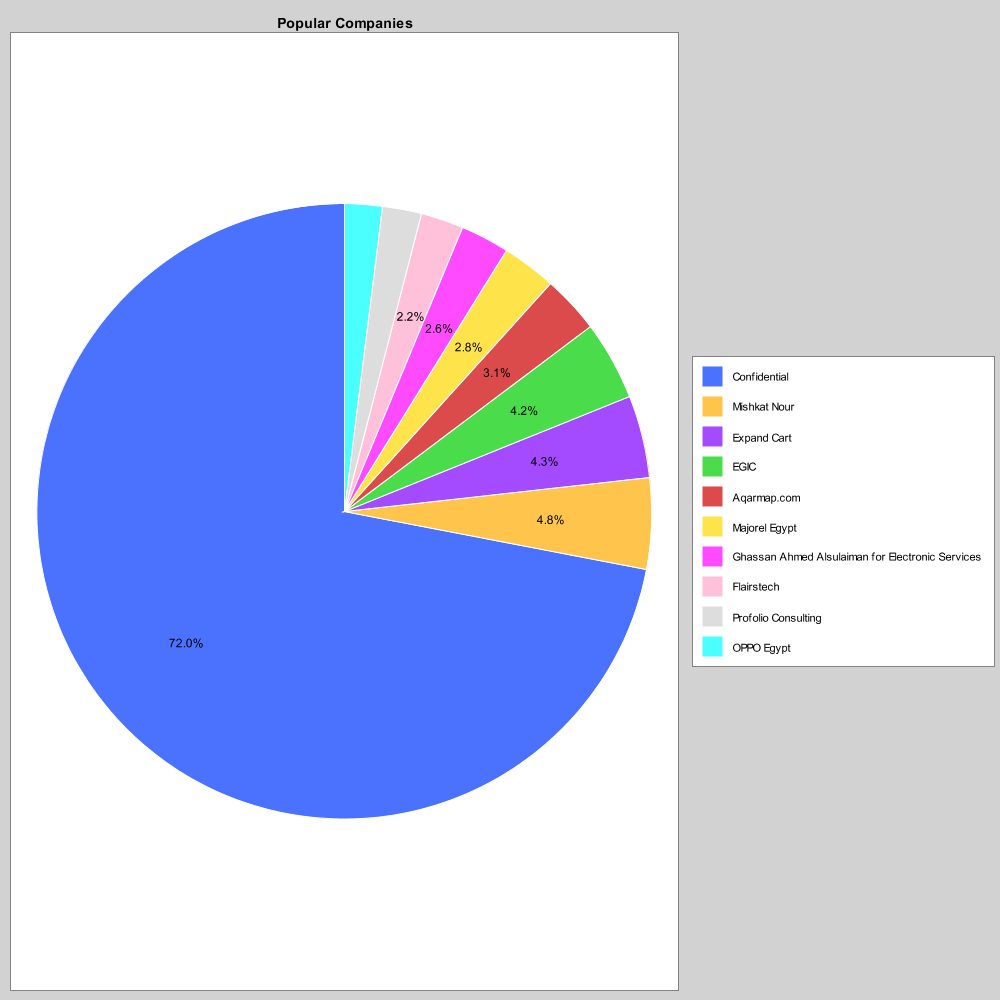
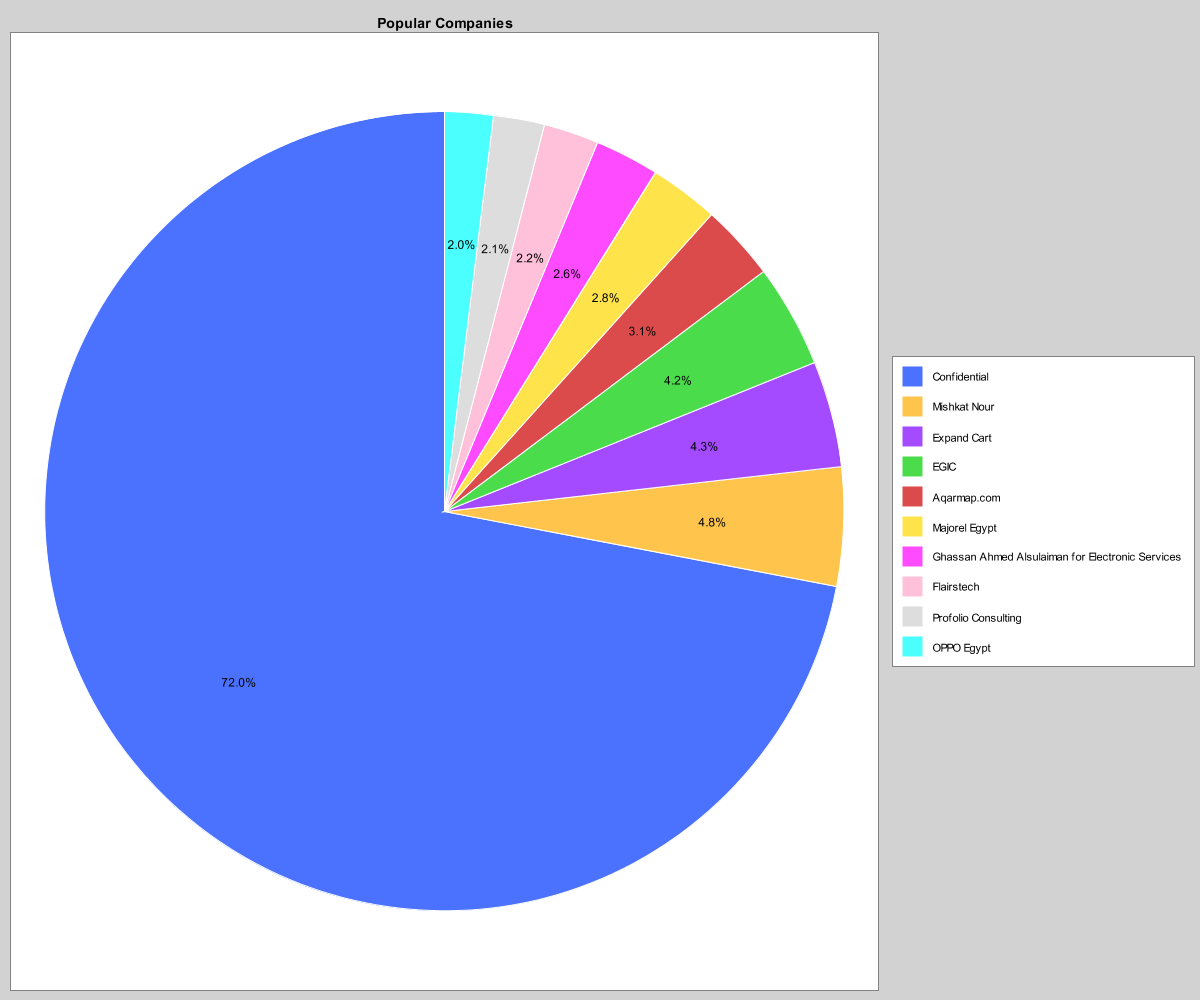
changed from hashmap to map

diff --git a/src/main/java/com/example/WuzzufJobsWebAnalysis/DAO.java b/src/main/java/com/example/WuzzufJobsWebAnalysis/DAO.java
@@ -38,7 +38,7 @@ import java.util.*;
 * makePieChart: creates pie chart
 * filterTable: get top ten demanding for any given table name
 * MakeMapFromRDD: converts RDD to LinkedHashMap
-* MakeMapFromLists: converts two lists to LinkedHashMap<list1,list2>
+* MakeMapFromLists: converts two lists to Map<list1,list2>
 ---------------------------------------------------------------------*/
 
 public class DAO {
@@ -128,12 +128,12 @@ public class DAO {
     * [Function Name]: filterByTitle
     * [Description]: Prints the top demanding jobs as a table-saw Table
     *                Graphs job title vs demands
-    *                returns the table as LinkedHashMap
+    *                returns the table as Map
     * [Args]:
     *     int size: size of filtered data
-    * [Returns]: LinkedHashMap map
+    * [Returns]: Map map
     ---------------------------------------------------------------------*/
-    public LinkedHashMap<String, Long> filterByTitle(int size) throws IOException {
+    public Map<String, Long> filterByTitle(int size) throws IOException {
         //creates a table with columns(title , count),sorted descendingly by count.
         Table topTitles = filterTable( "Title", size);
         //prints the table.
@@ -143,8 +143,8 @@ public class DAO {
         List count= Arrays.asList(topTitles.column("Count").asObjectArray());
         //Visualize the data as bar chart.
         makeBarChart(title,count , "Jobs' Popularity" , "Jobs");
-        //Returns a LinkedHashMap version of the table .
-        LinkedHashMap<String, Long> map = MakeMapFromLists(title,count);
+        //Returns a Map version of the table .
+        Map<String, Long> map = MakeMapFromLists(title,count);
         return map;
     }
     /*---------------------------------------------------------------------
@@ -154,9 +154,9 @@ public class DAO {
     *                returns the table as LinkedHashMap
     * [Args]:
     *     int size: size of filtered data
-    * [Returns]: LinkedHashMap map
+    * [Returns]: Map map
     ---------------------------------------------------------------------*/
-    public LinkedHashMap<String, Long> filterByCompany(int size) throws IOException {
+    public Map<String, Long> filterByCompany(int size) throws IOException {
         //creates a table with columns(company , count),sorted descendingly by count.
         Table topCompanies = filterTable( "Company", size);
         //prints the table.
@@ -166,8 +166,8 @@ public class DAO {
         List count= Arrays.asList(topCompanies.column("Count").asObjectArray());
         //Visualize the data as pie chart.
         makePieChart(company,count , "Popular Companies" , "Companies");
-        //Creates a LinkedHashMap version of the table .
-        LinkedHashMap<String, Long> map = MakeMapFromLists(company,count);
+        //Creates a Map version of the table .
+        Map<String, Long> map = MakeMapFromLists(company,count);
         return map;
         //return topCompanies;
     }
@@ -175,12 +175,12 @@ public class DAO {
     * [Function Name]: filterByArea
     * [Description]: Prints the top demanding Areas as a table-saw Table
     *                Graphs Areas vs demands
-    *                returns the table as LinkedHashMap
+    *                returns the table as Map
     * [Args]:
     *     int size: size of filtered data
-    * [Returns]: LinkedHashMap map
+    * [Returns]: Map map
     ---------------------------------------------------------------------*/
-    public LinkedHashMap<String, Long> filterByArea(int size) throws IOException {
+    public Map<String, Long> filterByArea(int size) throws IOException {
         //creates a table with columns(Area , count),sorted descendingly by count.
         Table topAreas = filterTable( "Location", size);
         //prints the table
@@ -190,8 +190,8 @@ public class DAO {
         List count= Arrays.asList(topAreas.column("Count").asObjectArray());
         //Visualize the relation between Areas and job demand as bar chart
         makeBarChart(Areas,count , "Areas' Popularity" , "Areas");
-        //Creates a LinkedHashMap version of the table .
-        LinkedHashMap<String, Long> map = MakeMapFromLists(Areas,count);
+        //Creates a Map version of the table .
+        Map<String, Long> map = MakeMapFromLists(Areas,count);
         return map;
         //return topAreas;
     }
@@ -199,12 +199,12 @@ public class DAO {
     * [Function Name]: filterByArea
     * [Description]: Prints the top demanding Areas as a table-saw Table
     *                Graphs Areas vs demands
-    *                returns the table as LinkedHashMap
+    *                returns the table as Map
     * [Args]:
     *     int size: size of filtered data
-    * [Returns]: LinkedHashMap map
+    * [Returns]: Map map
     ---------------------------------------------------------------------*/
-    public LinkedHashMap<String, Long>  filterBySkills(int size){
+    public Map<String, Long>  filterBySkills(int size){
         //get the skills part of the job RDD entries
         JavaRDD<String> skills= jobs.map(line -> line.split("\"")[1]);
         //join all skills with commas , split them again using comma and create
@@ -227,19 +227,19 @@ public class DAO {
         //extract lists from the table
         List Skills= Arrays.asList(skillsTable.column("Skills").asStringColumn().asObjectArray());
         List count= Arrays.asList(skillsTable.column("Count").asObjectArray());
-        //Creates a LinkedHashMap version of the table .
-        LinkedHashMap<String, Long> map = MakeMapFromLists(Skills,count);
+        //Creates a Map version of the table .
+        Map<String, Long> map = MakeMapFromLists(Skills,count);
         return map;
     }
     /*---------------------------------------------------------------------
     * [Function Name]: filterByExperience
     * [Description]: Prints the top job demanding Experiences as a table-saw Table
-    *                returns the table as LinkedHashMap
+    *                returns the table as Map
     * [Args]:
     *     int size: size of filtered data
-    * [Returns]: LinkedHashMap map
+    * [Returns]: Map map
     ---------------------------------------------------------------------*/
-    public LinkedHashMap<String, Long> filterByExperience(int size){
+    public Map<String, Long> filterByExperience(int size){
         //create a list from the jobs RDD of values of years of experience removing
         //the text part and taking only the upper limit of the interval
         //example: 1-3 Yrs Exp -> 1
@@ -263,8 +263,8 @@ public class DAO {
         //Extract the columns of topYrsExp as lists
         List Years= Arrays.asList(topYrsExp.column("Numeric YearsExp").asStringColumn().asObjectArray());
         List count= Arrays.asList(topYrsExp.column("Count").asObjectArray());
-        //creates and returns the LinkedHashMap version of the table
-        LinkedHashMap<String, Long> map = MakeMapFromLists(Years,count);
+        //creates and returns the Map version of the table
+        Map<String, Long> map = MakeMapFromLists(Years,count);
         return map;
         //return filterTable("Numeric YearsExp",size);
     }
@@ -306,7 +306,7 @@ public class DAO {
     ---------------------------------------------------------------------*/
     public  void makePieChart(List<String> Categories,List<Integer> values, String title , String imageName) throws IOException {
         //Creates the pie chart
-        PieChart chart = new PieChartBuilder().width(1000).height(1000).title(title).build();
+        PieChart chart = new PieChartBuilder().width(1200).height(1000).title(title).build();
         for( int i=0;i<Categories.size();i++)
         {
             chart.addSeries(Categories.get(i),values.get(i));
@@ -357,17 +357,17 @@ public class DAO {
     /*---------------------------------------------------------------------
     * [Function Name]: MakeMapFromLists
     * [Description]: This function is responsible for returning a
-    *                Sorted descendingly LinkedHashMap<keys,values> version
+    *                Sorted descendingly Map<keys,values> version
     *                from two lists
     * [Args]:
     *   List<String> keys: the keys of the map as a list
     *   List<Long> values: the values of the map as a list
-    * [Returns]: LinkedHashMap<String, Long> reverseSortedMap
+    * [Returns]: Map<String, Long> reverseSortedMap
     ---------------------------------------------------------------------*/
-    public LinkedHashMap<String, Long> MakeMapFromLists(List<String> keys,List<Long> values){
+    public Map<String, Long> MakeMapFromLists(List<String> keys,List<Long> values){
         //create an empty LinkedHashMap and insert in it the key value pairs of the
         //given lists on by one.
-        LinkedHashMap<String, Long> reverseSortedMap = new LinkedHashMap<>();
+        Map<String, Long> reverseSortedMap = new LinkedHashMap<>();
         for (int i=0; i<keys.size(); i++) {
             reverseSortedMap.put(keys.get(i), values.get(i));    // is there a clearer way?
         }

diff --git a/src/main/java/com/example/WuzzufJobsWebAnalysis/Analyzer.java b/src/main/java/com/example/WuzzufJobsWebAnalysis/Analyzer.java
@@ -9,14 +9,15 @@ import tech.tablesaw.api.Table;
 
 import java.io.IOException;
 import java.util.LinkedHashMap;
+import java.util.Map;
 
 public class Analyzer {
 
-    private LinkedHashMap<String, Long> skills;
-    private LinkedHashMap<String, Long> titles;
-    private LinkedHashMap<String, Long> company;
-    private LinkedHashMap<String, Long> area;
-    private LinkedHashMap<String, Long> YearsExp;
+    private Map<String, Long> skills;
+    private Map<String, Long> titles;
+    private Map<String, Long> company;
+    private Map<String, Long> area;
+    private Map<String, Long> YearsExp;
 
     public Analyzer() throws IOException {
 
@@ -37,20 +38,20 @@ public class Analyzer {
 
     }
 
-    public LinkedHashMap<String, Long> getSkills(){
+    public Map<String, Long> getSkills(){
         return this.skills;
     }
-    public LinkedHashMap<String, Long> getTitles(){
+    public Map<String, Long> getTitles(){
         return this.titles;
     }
-    public LinkedHashMap<String, Long> getCompany(){
+    public Map<String, Long> getCompany(){
         return this.company;
     }
-    public LinkedHashMap<String, Long> getAreas(){
+    public Map<String, Long> getAreas(){
         return this.area;
     }
 
-    public LinkedHashMap<String, Long> getYearsExp(){
+    public Map<String, Long> getYearsExp(){
         return this.YearsExp;
     }
 }

diff --git a/src/main/java/com/example/WuzzufJobsWebAnalysis/AnalyzerWebService.java b/src/main/java/com/example/WuzzufJobsWebAnalysis/AnalyzerWebService.java
@@ -13,6 +13,7 @@ import org.springframework.web.servlet.ModelAndView;
 
 import java.io.IOException;
 import java.util.LinkedHashMap;
+import java.util.Map;
 
 /*---------------------------------------------------------------------
 [Class Name]: AnalyzerWebService
@@ -25,11 +26,11 @@ public class AnalyzerWebService {
 
 
     //Attributes are static to save the data and not init;ize it everytime with null
-    static LinkedHashMap<String, Long> skills;
-    static LinkedHashMap<String, Long> titles;
-    static LinkedHashMap<String, Long> areas;
-    static LinkedHashMap<String, Long> years;
-    static LinkedHashMap<String, Long> companies;
+    static Map<String, Long> skills;
+    static Map<String, Long> titles;
+    static Map<String, Long> areas;
+    static Map<String, Long> years;
+    static Map<String, Long> companies;
 
     public void AnalyzerWebService() throws IOException {
         Analyzer analyzer = new Analyzer();
